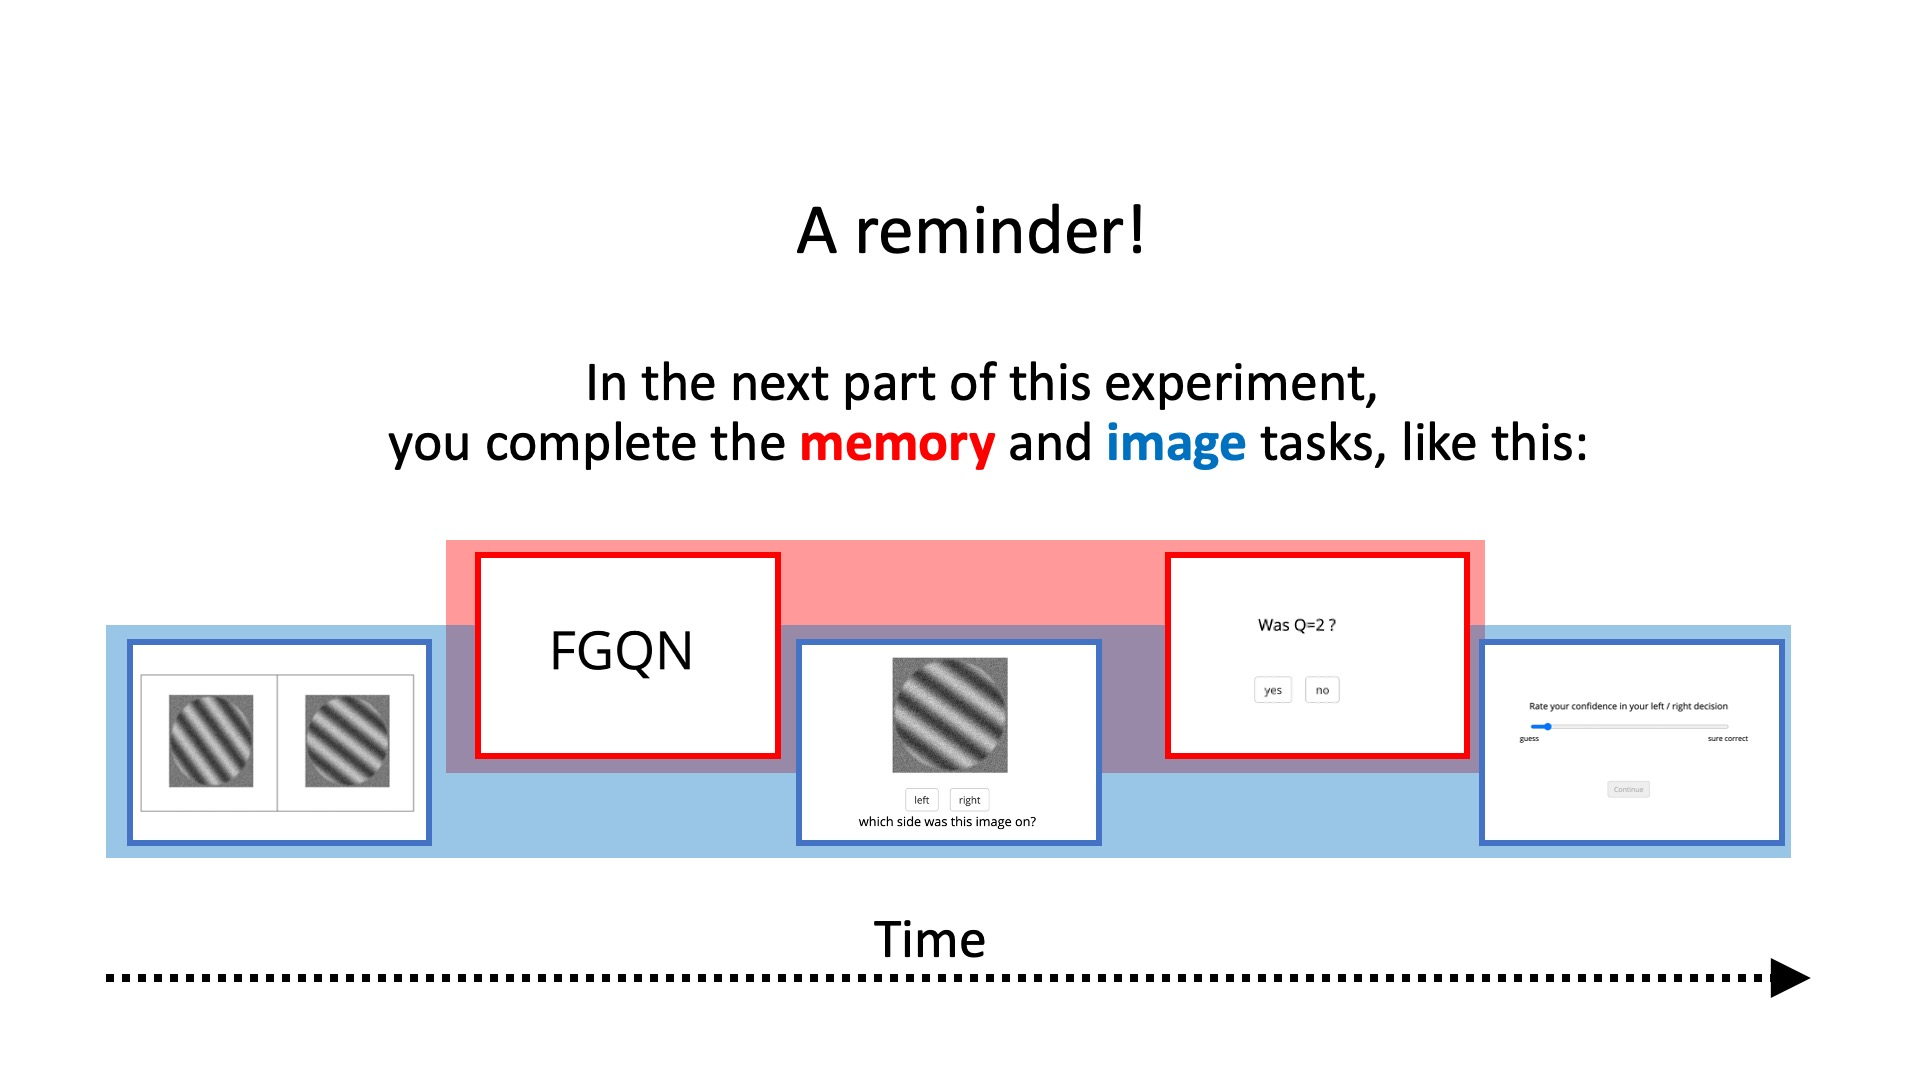
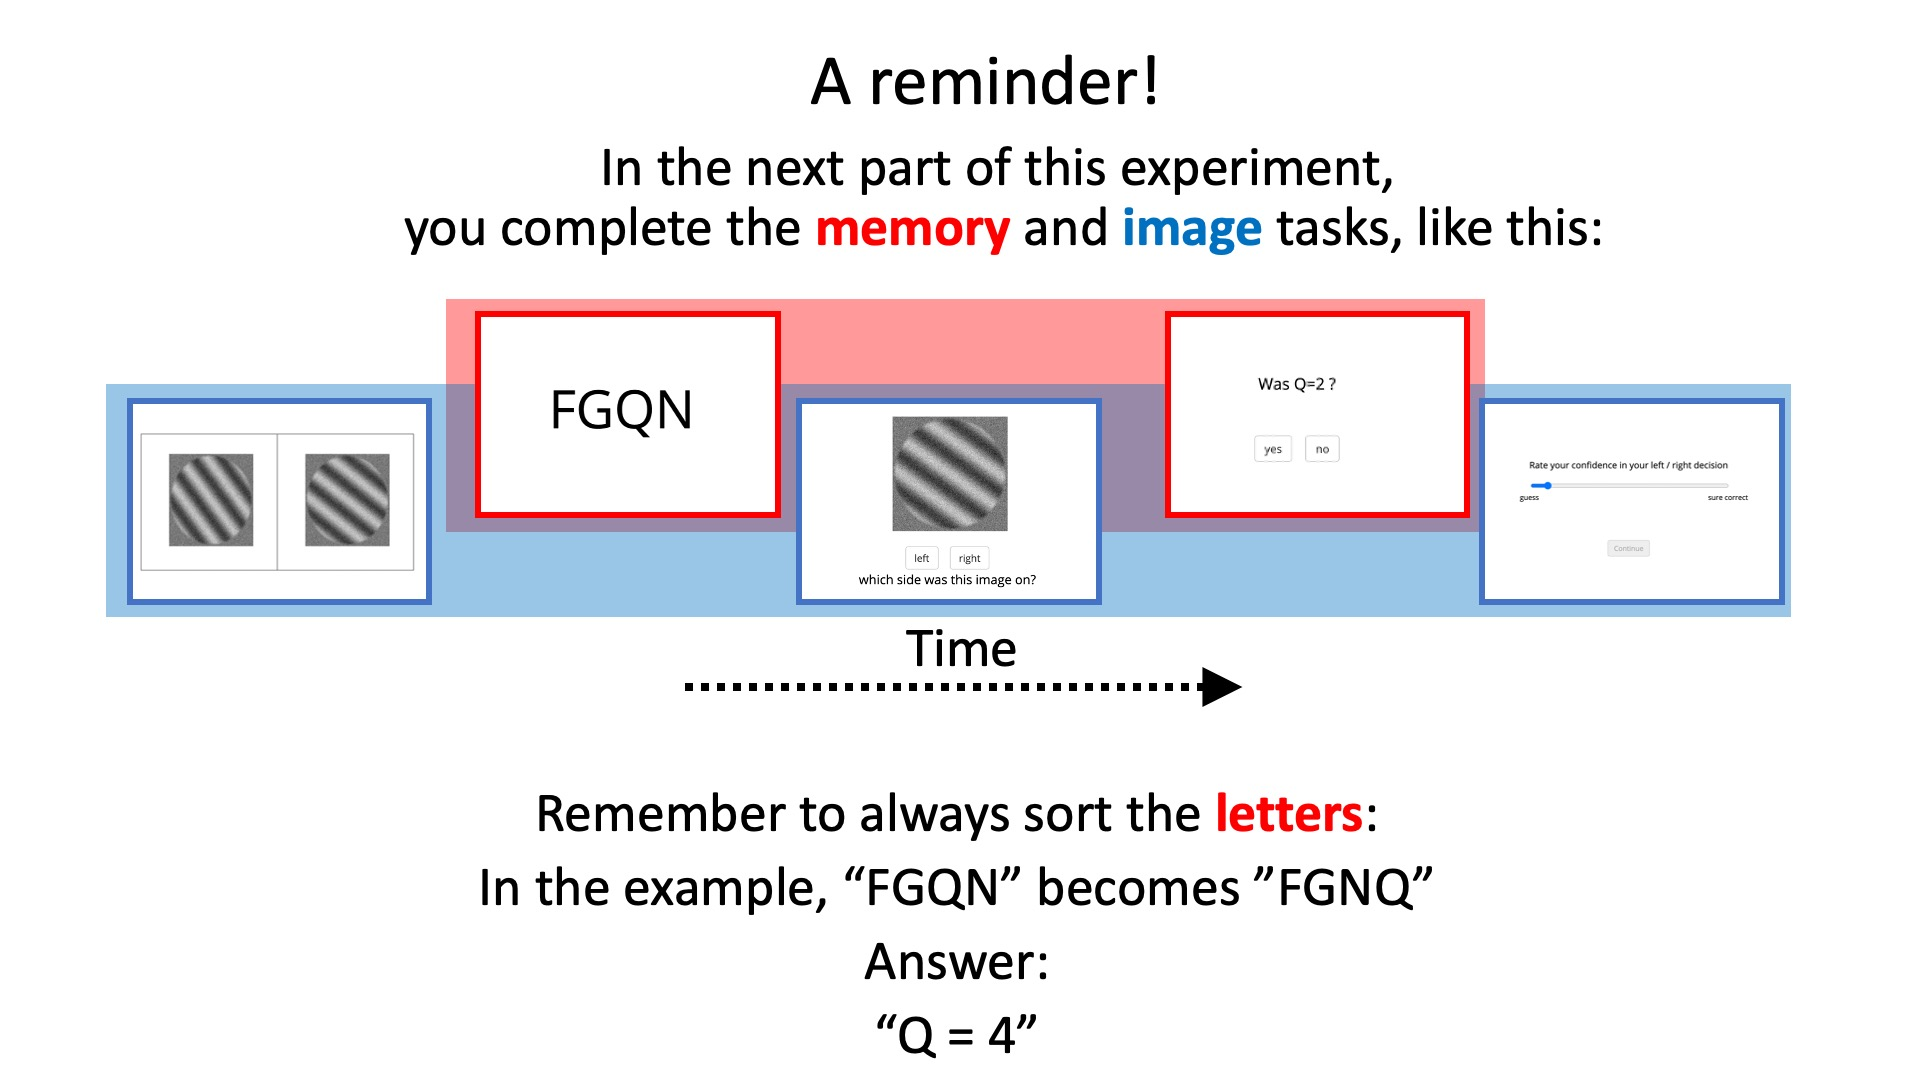
Changes for Ver 2: - adjusted stimulus timings to match critical windows in each condition. - Reminder of verbal instructions - adjusted feedback period to end of each trial.

Changed region(s): [[0.0312, 0.275, 0.9375, 0.9167], [0.2188, 0.0611, 0.8438, 0.2444], [0.4688, 0.9472, 0.5312, 0.9778]]

diff --git a/verbalWM/index.html b/verbalWM/index.html
@@ -72,7 +72,8 @@ let VWM_timeout = 5000; //5 s time out to make response, this is used to define 
 let ImageSize = 200; // pixels
 let Initialdegree_diff = 15 ; // initial degree difference. Start large, increments by 1.
 let fixPreStim = 500; //short fixation interval.
-let trialStimDuration = 200; // gabor show time.
+let trialStimDuration = 1500; // gabor show time. (was 2000)
+let maskTime = 200; // ms was 2000, now removed.(ver 2)
 
 let wholeExpStaircasing= false;
 let nStaircaseBlocks = 4; //[4]  *nTrialsregBlock, completed pre experiment, baseline condition only.
@@ -367,7 +368,17 @@ var fixation_pre = {
     	
     } 
 }
-
+// a longer interval fixation, used to equate timings between block types.
+var fixation_2p5s = {
+    type: "html-keyboard-response",
+    stimulus: '<div style = "font-size:60px; "> + </div>' ,
+    choices:jsPsych.NO_KEYS, // freezes keyboard
+    trial_duration:2500, // short duration
+    on_load: (trial)=>{
+    	gov.fullscreenMode();
+    	
+    } 
+}
 // a longer interval fixation (e.g. for maintenance of array in WM)
 var fixation_maintenance = { 
     type: "html-keyboard-response",
@@ -387,12 +398,7 @@ var fixation_post = {
     choices:jsPsych.NO_KEYS, // freezes keyboard
     //trial_duration is fixation time, randomized from the fixation_times array set above.
     trial_duration: fixation_times, // 200 ms 
-        on_start: function(){
-        	//determine current experiment progress, and manually set progress bar.
-        	// this is at the end of each trial.
-        	
-
-        },
+        
         on_finish(trial){ // keep track of the trials.
             // gov.drawProgressBar();
             gov.currentTrialIndex++ ;
@@ -406,7 +412,7 @@ var fixation_Feedback = {
     type: "html-keyboard-response",    
     stimulus:  '',        
     choices: jsPsych.NO_KEYS, // freezes keyboard
-    trial_duration: fixation_times, // 200 ms 
+    trial_duration: 800, // 200 ms 
 
     on_start: function(trial) {         
        // define colour based on previous timing of response to (to VWM probe).
@@ -414,7 +420,7 @@ var fixation_Feedback = {
        let prevRT = gov.trials[currID].WM_rt;
        if (prevRT == null) {        
         // define stimulus anew, based on previous RT. Now a big red X
-       trial.stimulus =  '<div style = "font-size:50px; color:red">  <p> Too Slow </p> <p> X </p> </div>' ; //red X
+       trial.stimulus =  '<div style = "font-size:50px";>  <p> Too slow in </div> <div style= "font-size:50px ; color:red"> memory task </p> </div>' ; //red X
        }
 
        else {
@@ -423,6 +429,14 @@ var fixation_Feedback = {
 
        // note that time-out for WMrt 
     },
+
+
+    //important!! Only use this on finish procedure, when running EXP ver 2. As feedback is placed at trial end. Otherwise, comment out this procedure (trials incremented instead in fixation_post).
+    on_finish(trial){ // keep track of the trials.
+            // gov.drawProgressBar();
+            gov.currentTrialIndex++ ;
+            console.log('trial count now:', gov.currentTrialIndex);
+    }
        
 }
 
@@ -473,7 +487,7 @@ var EndExp_show = {
 var Gabor_show = {
     type: 'vsl-grid-scene',
     stimuli: '', //of form…[["./assets/Gabors/Orientation1.jpg","./assets/Gabors/Orientation100.jpg"]], // this gets overwritten below.
-    timing_duration: 300, 
+    trial_duration: trialStimDuration, 
     image_size: [ImageSize, ImageSize],
 
     on_start: function (trial) {
@@ -516,7 +530,7 @@ var Gabor_show = {
 var Gabor_mask = {
     type: 'vsl-grid-scene',
     stimuli: '', 
-    timing_duration: 100, 
+    trial_duration: maskTime, 
     image_size: [ImageSize, ImageSize],
 
     on_start: function (trial) {
@@ -865,7 +879,11 @@ var Confj_response ={
 }
 
 var Gaboronly_procedure = { // added as an early practice type. Provides feedback.
-	timeline: [fixation_pre, Gabor_show, Gabor_mask, Gabor_probe, Confj_response,gabor_feedback],
+	//ver 1
+	// timeline: [fixation_pre, Gabor_show, Gabor_mask, Gabor_probe, Confj_response,gabor_feedback],
+	
+	//ver 2
+	timeline: [fixation_pre, Gabor_show, Gabor_probe, Confj_response,gabor_feedback],
 	
     repetitions: npracgabor_only,
 
@@ -873,26 +891,38 @@ var Gaboronly_procedure = { // added as an early practice type. Provides feedbac
 /////////define the different procedures (WM task interference types)
 
 var staircase_procedure = {
+ 	// This is the same as the basline procedure, in ver 1. in ver 2, reduced gaps before conf response, as not used in staircasing.
 
-    timeline: [fixation_pre_updateProgBar, V_WMarray, fixation_pre, V_WMprobe, fixation_Feedback, Gabor_show,Gabor_mask, Gabor_probe, Confj_response,fixation_post],
+ 	//first version of timings:
+    // timeline: [fixation_pre_updateProgBar, V_WMarray, fixation_pre, V_WMprobe, fixation_Feedback, Gabor_show,Gabor_mask, Gabor_probe, Confj_response,fixation_post],
+
+    //Second version of timings (exp 2). Longer durations between stim and cues, to match experimental blocks (i.e. stim, resp, and conf interference conditions)
+	timeline: [fixation_pre_updateProgBar, V_WMarray, fixation_2p5s, fixation_pre, V_WMprobe, Gabor_show, fixation_2p5s, fixation_pre, fixation_pre, Gabor_probe, Confj_response,fixation_Feedback],
 
     repetitions: nTrialsregBlock,
 
 
 }
-var baseline_procedure = { // in this version, we just switch between tasks.
+var baseline_procedure = { // in this version, we just switch between tasks. 
 
-    //timeline: [fixation_pre, V_WMarray, fixation_pre, V_WMprobe, fixation_pre, Gabor_show,fixation_pre, Gabor_probe, Confj_response,fixation_post],
-
-    timeline: [fixation_pre_updateProgBar, V_WMarray, fixation_pre, V_WMprobe, fixation_Feedback, Gabor_show, Gabor_mask, Gabor_probe, Confj_response,fixation_post],
-
+    
+	// Ver 1
+    // timeline: [fixation_pre_updateProgBar, V_WMarray, fixation_pre, V_WMprobe, fixation_Feedback, Gabor_show, Gabor_mask, Gabor_probe, Confj_response,fixation_post],
+    
+    // ver 2
+    timeline: [fixation_pre_updateProgBar, V_WMarray, fixation_2p5s, fixation_pre, V_WMprobe, Gabor_show, fixation_2p5s, fixation_pre, fixation_pre, Gabor_probe,  fixation_2p5s, Confj_response,fixation_Feedback],
     repetitions: nTrialsregBlock,
 
 }
 
 var encoding_procedure = { // in this version, the VWM task overlaps with stimulus encoding.
 
-    timeline: [fixation_pre_updateProgBar, V_WMarray, fixation_pre, Gabor_show, Gabor_mask, V_WMprobe, fixation_Feedback, Gabor_probe, Confj_response,fixation_post],
+    //ver 1
+    // timeline: [fixation_pre_updateProgBar, V_WMarray, fixation_pre, Gabor_show, Gabor_mask, V_WMprobe, fixation_Feedback, Gabor_probe, Confj_response,fixation_post],
+
+    //ver 2
+    timeline: [fixation_pre_updateProgBar, V_WMarray, fixation_pre,fixation_pre,fixation_pre, Gabor_show,   V_WMprobe,fixation_pre, fixation_pre, Gabor_probe, fixation_2p5s, Confj_response,fixation_Feedback],
+
 
     repetitions: nTrialsregBlock,
 }
@@ -900,14 +930,22 @@ var encoding_procedure = { // in this version, the VWM task overlaps with stimul
 
 var discrimresp_procedure = { // in this version, the VWM task overlaps with stimulus encoding.
 
-    timeline: [fixation_pre_updateProgBar, Gabor_show, Gabor_mask, V_WMarray, fixation_pre, Gabor_probe,  fixation_pre, V_WMprobe, fixation_Feedback, Confj_response,fixation_post],
+    //ver 1
+    // timeline: [fixation_pre_updateProgBar, Gabor_show, Gabor_mask, V_WMarray, fixation_pre, Gabor_probe,  fixation_pre, V_WMprobe, fixation_Feedback, Confj_response,fixation_post],
+
+    //ver 2
+	timeline: [fixation_pre_updateProgBar, Gabor_show, fixation_pre, fixation_pre, V_WMarray, fixation_pre, Gabor_probe, V_WMprobe, Confj_response, fixation_Feedback],
 
     repetitions: nTrialsregBlock,
 }
 
 var confresp_procedure = { // in this version, the VWM task overlaps with stimulus encoding.
 
-    timeline: [fixation_pre_updateProgBar, Gabor_show, Gabor_mask,  Gabor_probe, fixation_pre, V_WMarray,  fixation_pre, Confj_response, V_WMprobe, fixation_Feedback, fixation_post],
+    //ver 1 
+    // timeline: [fixation_pre_updateProgBar, Gabor_show, Gabor_mask,  Gabor_probe, fixation_pre, V_WMarray,  fixation_pre, Confj_response, V_WMprobe, fixation_Feedback, fixation_post],
+	
+	//ver 2
+    timeline: [fixation_pre_updateProgBar, Gabor_show, fixation_2p5s, fixation_pre,fixation_pre, Gabor_probe, fixation_pre, V_WMarray, Confj_response, V_WMprobe, fixation_Feedback],
 
     repetitions: nTrialsregBlock,
 }
